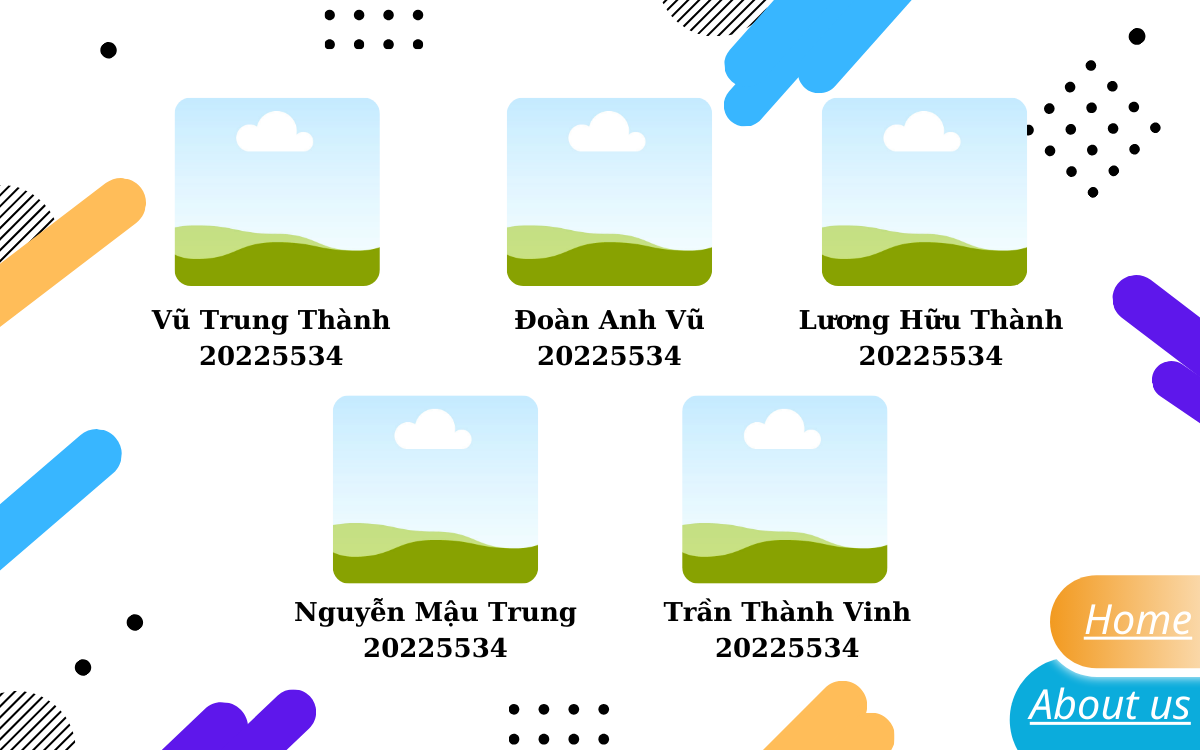
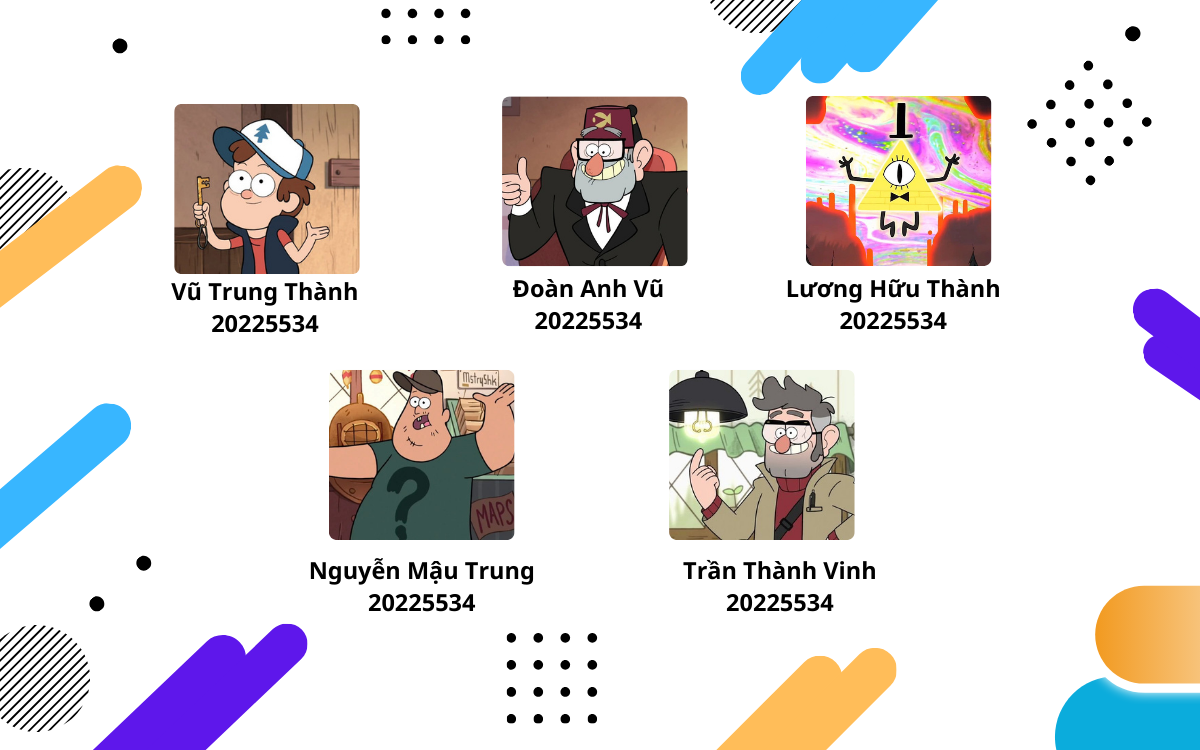
aboutUs

diff --git a/src/main/resources/group17/news_aggregator/gui/css/start.css b/src/main/resources/group17/news_aggregator/gui/css/start.css
@@ -3,12 +3,17 @@
     -fx-background-size: cover;
 }
 
-.vbox_background_right{
-    -fx-background-image:url("../image/startSceneBG.jpg");
+.vbox_background_au{
+    -fx-background-image:url("../image/aboutUs.png");
+    -fx-background-size: cover;
 }
 
 .mouse-moved: hover{
     -fx-text-fill: white;
+}
+
+.mouse-moved-au: hover{
+    -fx-text-fill: #5E17EB;
 }
 
 .transparent{

diff --git a/src/main/java/group17/news_aggregator/gui/StartController.java b/src/main/java/group17/news_aggregator/gui/StartController.java
@@ -5,6 +5,7 @@ import javafx.fxml.FXMLLoader;
 import javafx.scene.Node;
 import javafx.scene.Parent;
 import javafx.scene.Scene;
+import javafx.scene.control.Button;
 import javafx.stage.Stage;
 import javafx.event.ActionEvent;
 
@@ -14,6 +15,9 @@ public class StartController {
 
     private Stage stageStart;
     private Scene sceneStart;
+
+    @FXML
+    private Button aboutUs;
 
     public StartController() {
     }
@@ -34,8 +38,6 @@ public class StartController {
 
         try {
             Parent visitScene = loadMain.load();
-
-            helloController = loadMain.getController();
             stageStart.setScene(new Scene(visitScene));
             stageStart.show();
         } catch (IOException ex) {
@@ -48,18 +50,17 @@ public class StartController {
             stageStart = (Stage) ((Node) event.getSource()).getScene().getWindow();
         }
 
-        HelloController helloController = new HelloController(stageStart, sceneStart);
-        FXMLLoader loadMain = new FXMLLoader(getClass().getResource("hello-view.fxml"));
-        loadMain.setController(helloController);
+        FXMLLoader loader = new FXMLLoader(getClass().getResource("about-us.fxml"));
+        AboutUsController aboutUsController = new AboutUsController(stageStart, sceneStart);
+        loader.setController(aboutUsController);
 
         try {
-            Parent visitScene = loadMain.load();
-
-            helloController = loadMain.getController();
-            stageStart.setScene(new Scene(visitScene));
+            Parent aboutScene = loader.load();
+            stageStart.setScene(new Scene(aboutScene));
             stageStart.show();
         } catch (IOException ex) {
             ex.printStackTrace();
         }
     }
+
 }

diff --git a/src/main/java/group17/news_aggregator/gui/AboutUsController.java b/src/main/java/group17/news_aggregator/gui/AboutUsController.java
@@ -1,0 +1,45 @@
+package group17.news_aggregator.gui;
+
+import javafx.event.ActionEvent;
+import javafx.fxml.FXML;
+import javafx.fxml.FXMLLoader;
+import javafx.scene.Node;
+import javafx.scene.Parent;
+import javafx.scene.Scene;
+import javafx.scene.control.Button;
+import javafx.stage.Stage;
+
+import java.io.IOException;
+
+public class AboutUsController {
+
+    private Stage stageAu;
+    private Scene sceneAu;
+    @FXML
+    private Button homeButton;
+
+    public AboutUsController(Stage stageAu, Scene sceneAu) {
+        this.stageAu = stageAu;
+        this.sceneAu = sceneAu;
+    }
+
+
+    @FXML
+    void returnHome(ActionEvent event) {
+        if (stageAu == null) {
+            stageAu = (Stage) ((Node) event.getSource()).getScene().getWindow();
+        }
+
+        FXMLLoader loaderAu = new FXMLLoader(getClass().getResource("start-view.fxml"));
+        StartController startController = new StartController(stageAu, sceneAu);
+
+        try {
+            Parent aboutScene = loaderAu.load();
+            stageAu.setScene(new Scene(aboutScene));
+            stageAu.show();
+        } catch (IOException ex) {
+            ex.printStackTrace();
+        }
+    }
+
+}
